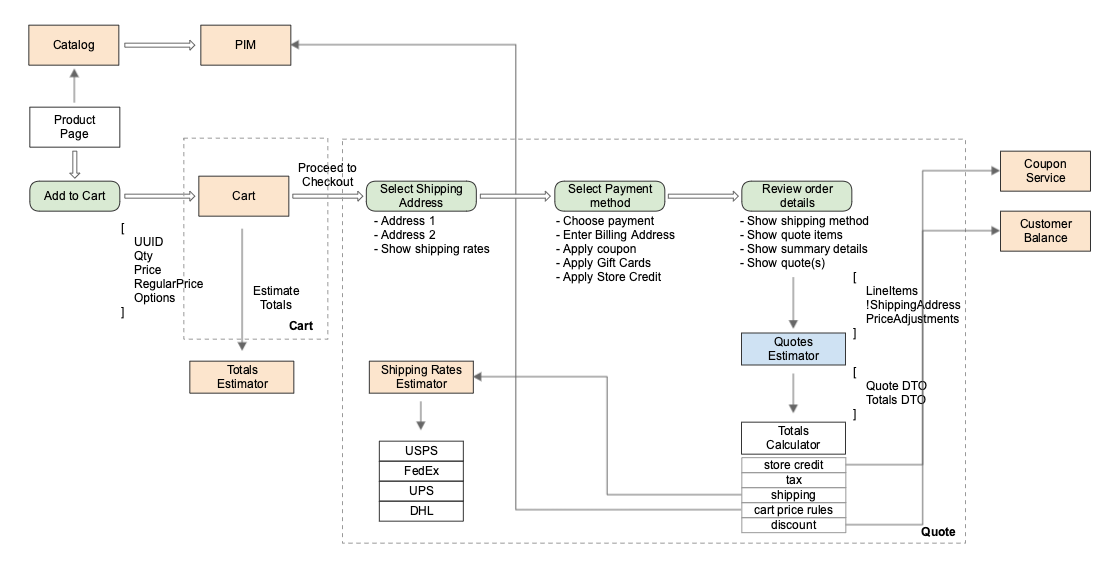
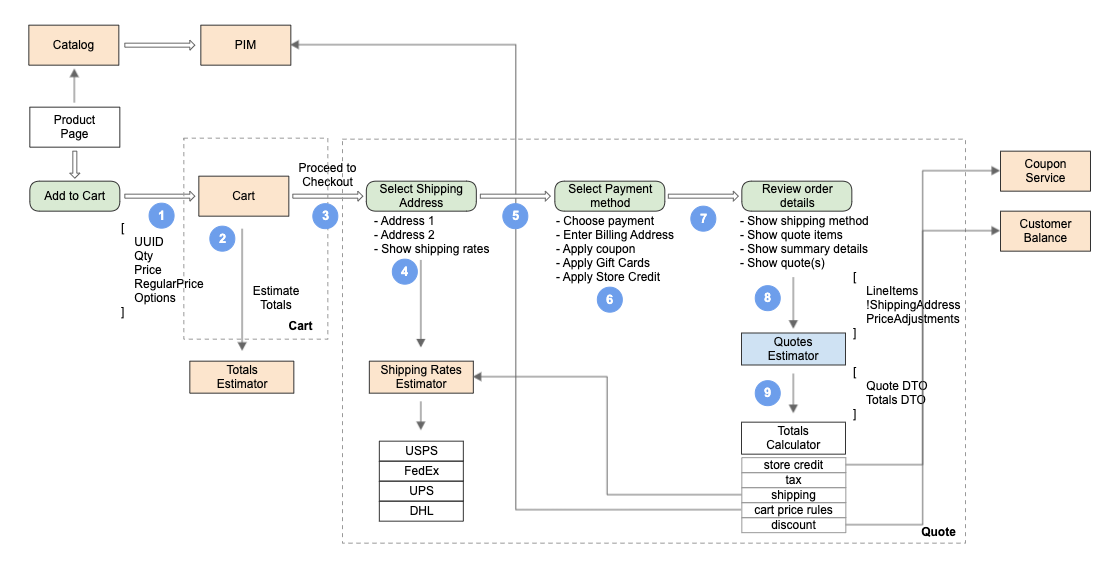
- Updated diagrams  - Added flow explanation

diff --git a/design-documents/checkout/alternative-checkout-flow.md b/design-documents/checkout/alternative-checkout-flow.md
@@ -17,9 +17,18 @@ This proposal describes multiple approaches for the checkout flow.
 ## Current checkout flow
 
 This section describes current checkout flow.
+
 ![Current checkout flow](img/alternative-checkout-flow.png)
 
-The `Add to Cart` operation receives only product id and quantity. All additional details like product dimensions for shipping rates calculations, each module requests from the Catalog.
+1. Products rendered from Catalog. An item is added to the cart.
+2. The cart calls the catalog product’s repository to get product details.
+3. The view cart action calls a totals collector to estimate totals on the quote.
+4. “Proceed to Checkout” starts a one-page checkout flow, where a customer can specify shipping and billing addresses, choose a payment solution and place an order.
+5. When the customer enters or selects the shipping address, shipping rates are estimated, which triggers whole totals calculation.
+6. On the Select Payment Method step, the customer can specify a billing address, choose a payment method, and apply discounts and gift cards.
+7. Actions like applying a customer balance, discounts, gift cards trigger the recalculation of the totals.
+8. The payment review step also contains summary details like items, shipping method, totals.
+
 Most of the actions like page reloading, retrieving shipping rates, applying discounts, gift cards, etc. triggers whole cart/quote recalculation.
 
 The different quote's calculators, like Cart Price Rule calculator, change quote object and totals and behavior might be unpredictable as different calculators can operate with the same data.
@@ -34,7 +43,17 @@ The Cart will depend on Catalog. Quote will have a knowledge about PIM, Shipping
 
 ![One-directional checkout flow](img/alternative-checkout-flow-2.png)
 
-The `Quotes Estimator` will be the main entry point to create a quote based on the provided input and the `Totals Collector` will provide totals calculation based on the provided quote object and the configuration. The `Shipping Rates Estimator` will be agnostic to the quote object and will provide shipping rates based on input data like shipping origin, shipping destination, items dimensions. The unified input data would allow using the same `Shipping Rates Estimator` for RMA, order estimated delivery, etc. without modifications. Also, the estimator will support rates retrieving only for a specified shipping method to reduce a number of calls to other shipping carriers (the current implementation gets rates from all configured carriers).
+1. An item that contains all needed attributes (like SKU, quantity, regular price and options) is added to the cart.
+2. The cart calls the totals estimator for basic items price calculation. This calculation is needed only for a summary representation in the shopping cart. It does not make sense to check prices from PIM or Catalog.
+3. The “Proceed to Checkout” triggers the creation of a Quote entity. It does not contain an estimate of the totals. 
+4. After the customer specifies a shipping method, the shipping rates estimator provides all available shipping methods for this address. If a customer wants to specify multiple shipping addresses, then multiple quotes will be created (one per shipping address) and a list of available shipping methods will be provided for all addresses.
+5. On the select payment method step, a customer chooses the payment method, specifies a billing address while Magento applies discounts and gift cards, calculates customer balance, etc.
+6. After a payment method is chosen and all possible price adjustments are specified, the summary can be reloaded dynamically based on changes for each item.
+7. The summary block includes quote items, shipping addresses and other quote/multi-quote details.
+8. The change of any or all price adjustments triggers a new quote creation and totals recalculation.
+9. The Quotes Estimator triggers totals calculation. Each calculator gets all the needed data, like the actual shipping rate, product prices, tax rules, the current state of customer balance, etc.
+
+The `Quotes Estimator` will be the main entry point to create a quote based on the provided input and the `Totals Collector` will provide totals calculation based on the provided quote object and the configuration. The `Shipping Rates Estimator` will be agnostic to the quote object and will provide shipping rates based on input data like shipping origin, shipping destination, items dimensions. The unified input data would allow using the same `Shipping Rates Estimator` for RMA, order estimated delivery, etc. Also, the estimator will support rates retrieving only for a specific shipping method to reduce a number of calls to other shipping carriers (the current implementation gets rates from all configured carriers).
 
 The following sequence diagram shows how the place order will look like according to the proposed solution:
 
@@ -228,3 +247,5 @@ The main benefits of the proposed changes are the following:
  - One-directional flow allows reducing communication between components
  - Possibility to separate quotes based on stock availability
  - Improving API customizability and extensibility
+ - Performance improvements based on reducing dependencies between components and their communication
+ - Simplified and unified totals storage
